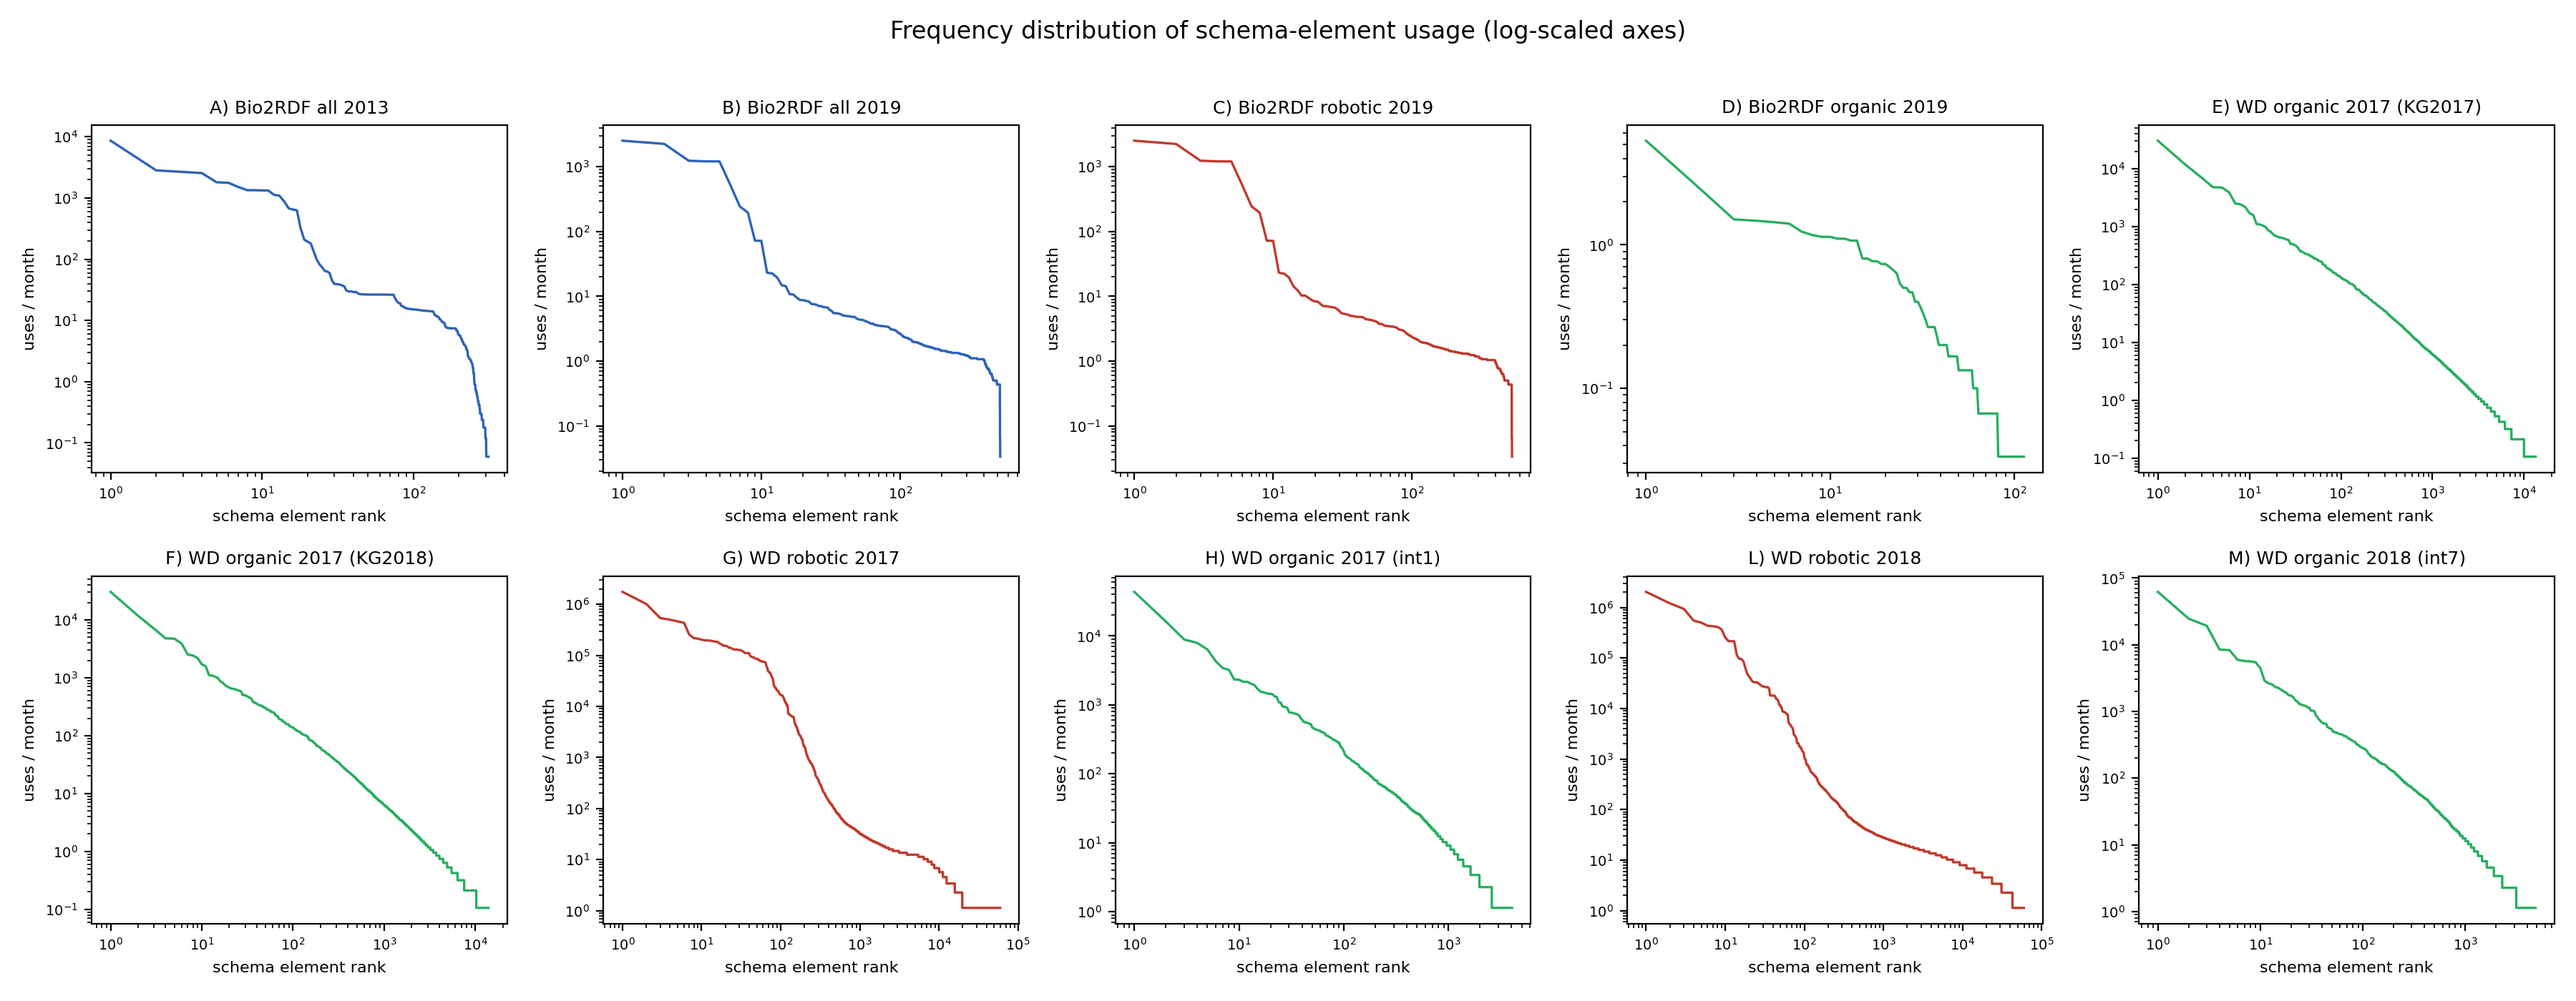
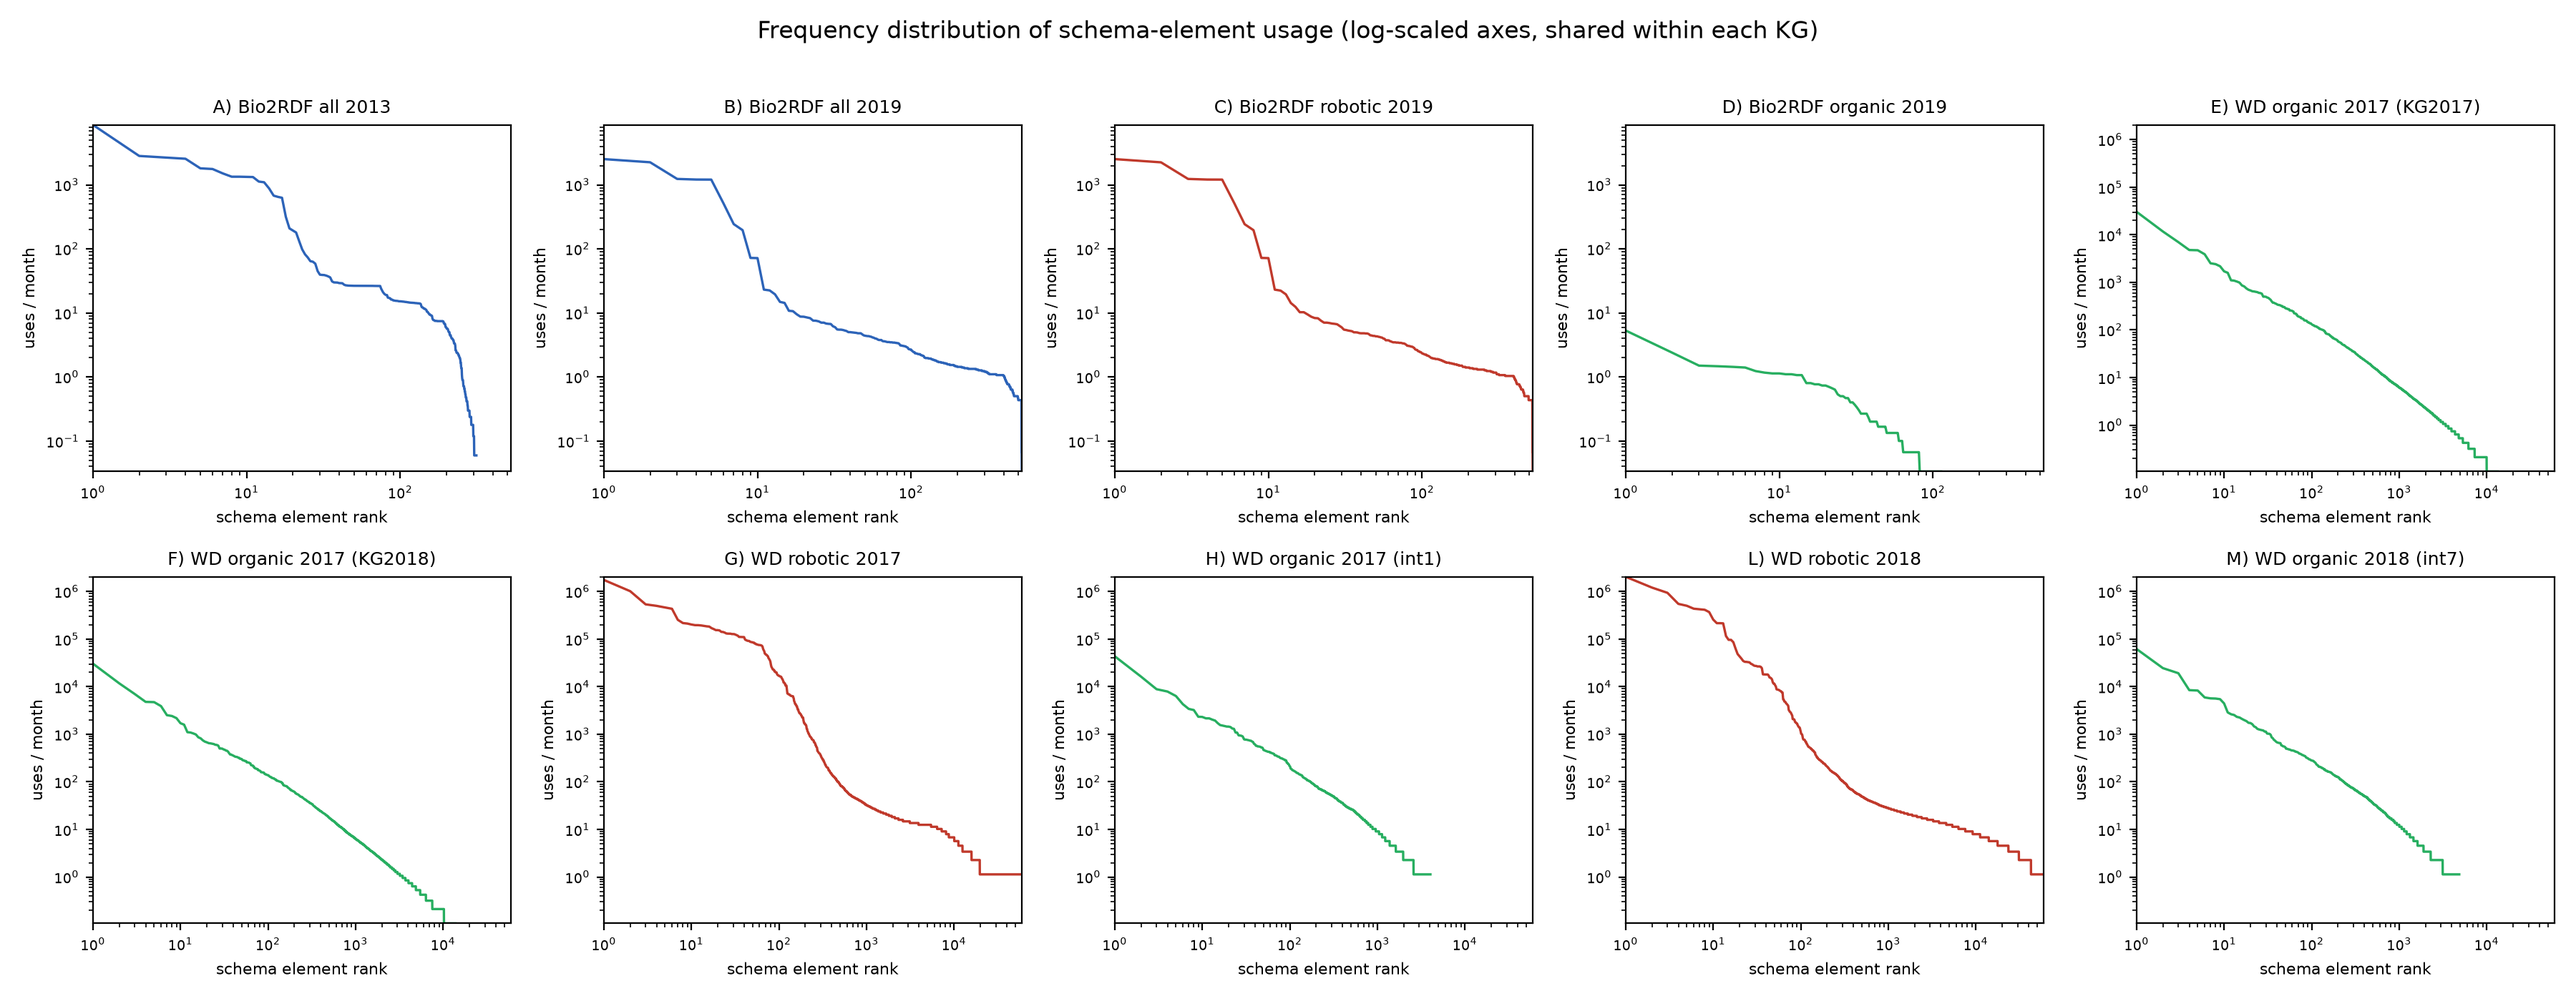
Manuscript + code: address comment 9 (shared per-KG axis limits in Figure 6)
Figure 6 (fig:l6) panels were independently auto-scaled, letting panels that
differ by orders of magnitude in true usage rate (e.g. Bio2RDF robotic vs.
organic) appear to have similar vertical extent. regenerate_figures.py now
computes shared x/y limits per KG (Bio2RDF: A-D; Wikidata: E,F,G,H,L,M) and
applies them before saving; log-scaled axes keep each panel's own curve shape
visible even when its data occupies a small fraction of the shared range.
Caption updated to state this explicitly. Also fixed a stale pair of Wikidata
TSE numbers (104,314/98,462 -> 104,286/98,436) in the paragraph introducing
this figure, missed during the earlier Wikidata schema-definition fix.

diff --git a/manuscript/texsupport.iospress-sw-master/main.tex b/manuscript/texsupport.iospress-sw-master/main.tex
@@ -789,7 +789,7 @@ Thus far, we have introduced a method for calculating SPARQL schema coverage, wh
 \begin{figure}
     \centering
     \includegraphics[width=0.9\textwidth]{image10.png} 
-    \caption{Frequency distribution of schema elements across datasets (A–M). The datasets include: A) Bio2RDF All log2013\_kg2024, B) Bio2RDF All log2019\_kg2024,  C) Bio2RDF robotic log2019\_kg2024, D) Bio2RDF organic log2019\_kg2024, E) Wikidata organic log2017\_kg2017, F) Wikidata organic log2017\_kg2018,  G) Wikidata robotic log2017\_kg2017, H) Wikidata organic log2017\_kg2017, L) Wikidata robotic log2018\_kg2018, M) Wikidata organic log2018\_kg2018. The plot's color represents it's log type: blue for all logs, red for robotic logs, and green for organic logs. }
+    \caption{Frequency distribution of schema elements across datasets (A–M). The datasets include: A) Bio2RDF All log2013\_kg2024, B) Bio2RDF All log2019\_kg2024,  C) Bio2RDF robotic log2019\_kg2024, D) Bio2RDF organic log2019\_kg2024, E) Wikidata organic log2017\_kg2017, F) Wikidata organic log2017\_kg2018,  G) Wikidata robotic log2017\_kg2017, H) Wikidata organic log2017\_kg2017, L) Wikidata robotic log2018\_kg2018, M) Wikidata organic log2018\_kg2018. The plot's color represents it's log type: blue for all logs, red for robotic logs, and green for organic logs. Within each KG, all panels share the same x- and y-axis limits, so that differences in peak usage magnitude across query types and time periods are directly comparable; Bio2RDF and Wikidata use separate scales. }
      \label{fig:l6}
 \end{figure}
 
@@ -799,7 +799,7 @@ Thus far, we have introduced a method for calculating SPARQL schema coverage, wh
 \end{comment}
 
 \subsubsection{Frequency Distribution of Schema Elements}
-As described in Section \ref{sec:s61}, we analyze schema element usage patterns by visualizing the frequency distribution of elements across various intervals of robotic and organic query logs from Bio2RDF and Wikidata. Figure \ref{fig:l6} illustrates this distribution on logarithmic axes: the y-axis is the normalized monthly usage count of each schema element and the x-axis is the schema-element rank (most- to least-frequently used). The Bio2RDF contain 541 schema elements, whereas Wikidata 2017 and 2018 include 104,314 and 98,462 elements, respectively. The color scheme distinguishes log types: green represents organic logs, red represents robotic logs, and blue represents all logs (organic and robotic combined). The plots (A–M) exhibit a consistent trend: a sharp decline in schema element usage frequency, suggesting that most schema elements are infrequently used.
+As described in Section \ref{sec:s61}, we analyze schema element usage patterns by visualizing the frequency distribution of elements across various intervals of robotic and organic query logs from Bio2RDF and Wikidata. Figure \ref{fig:l6} illustrates this distribution on logarithmic axes: the y-axis is the normalized monthly usage count of each schema element and the x-axis is the schema-element rank (most- to least-frequently used). The Bio2RDF contain 541 schema elements, whereas Wikidata 2017 and 2018 include 104,286 and 98,436 elements, respectively. The color scheme distinguishes log types: green represents organic logs, red represents robotic logs, and blue represents all logs (organic and robotic combined). The plots (A–M) exhibit a consistent trend: a sharp decline in schema element usage frequency, suggesting that most schema elements are infrequently used.
 
 Plot A (Bio2RDF All log2013\_kg2024) exhibits a more gradual decline in schema element usage compared to Plot B (Bio2RDF All log2019\_kg2024). Plot C (Bio2RDF robotic log2019\_kg2024) demonstrates a far higher maximum frequency, its most-used element reaching about $2.5\times10^{3}$ uses per month, whereas Plot D (Bio2RDF organic log2019\_kg2024) peaks at roughly $5$ uses per month, nearly three orders of magnitude lower. This contrast highlights the greater intensity of schema element usage in Bio2RDF robotic queries.
 

diff --git a/KG-Usage-analysis/regenerate_figures.py b/KG-Usage-analysis/regenerate_figures.py
@@ -65,16 +65,39 @@ def load(f):
     return df.dropna()
 
 # ---------- Fig 6: frequency distribution (rank vs normalized monthly count, log y) ----------
+# Axis limits are shared within each KG (comment #9, review round 4): panels were previously
+# independently auto-scaled, which let panels differing by orders of magnitude in true rate
+# (e.g. Bio2RDF robotic vs. organic) look like they had similar vertical extent. Bio2RDF and
+# Wikidata keep separate scales from each other, since their usage frequencies differ
+# substantially and are not meant to be visually compared panel-for-panel across KGs.
+BIO2RDF_PANELS = {"A", "B", "C", "D"}
+WIKIDATA_PANELS = {"E", "F", "G", "H", "L", "M"}
+series = {}
+for p, f, dur, col, title in PANELS:
+    df = load(f); y = sorted(df["count"]/dur, reverse=True); x = list(range(1, len(y)+1))
+    series[p] = (x, y, col, title)
+
+def group_limits(panels):
+    xs_max = max(len(series[p][0]) for p in panels)
+    ys_all = [v for p in panels for v in series[p][1]]
+    return (1, xs_max), (min(ys_all), max(ys_all))
+
+xlim_bio, ylim_bio = group_limits(BIO2RDF_PANELS)
+xlim_wd, ylim_wd = group_limits(WIKIDATA_PANELS)
+
 fig, axes = plt.subplots(2, 5, figsize=(18, 7)); axes = axes.ravel()
 for ax, (p, f, dur, col, title) in zip(axes, PANELS):
-    df = load(f); y = sorted(df["count"]/dur, reverse=True); x = range(1, len(y)+1)
+    x, y, col, title = series[p]
     ax.plot(x, y, color=col, lw=1.2)
     ax.set_yscale("log"); ax.set_xscale("log")
+    xlim, ylim = (xlim_bio, ylim_bio) if p in BIO2RDF_PANELS else (xlim_wd, ylim_wd)
+    ax.set_xlim(xlim); ax.set_ylim(ylim)
     ax.set_title(f"{p}) {title}", fontsize=9)
     ax.set_xlabel("schema element rank", fontsize=8)
     ax.set_ylabel("uses / month", fontsize=8)
     ax.tick_params(labelsize=7)
-fig.suptitle("Frequency distribution of schema-element usage (log-scaled axes)", fontsize=12)
+fig.suptitle("Frequency distribution of schema-element usage (log-scaled axes, "
+             "shared within each KG)", fontsize=12)
 fig.tight_layout(rect=[0,0,1,0.97]); fig.savefig(os.path.join(OUT,"image10.png"), dpi=200); plt.close(fig)
 print("wrote Fig 6 -> image10.png")
 
